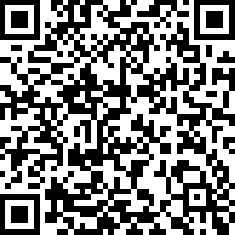
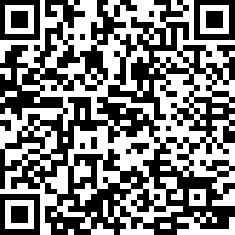
changed contract address + qr code

diff --git a/src/scripts/w3.js b/src/scripts/w3.js
@@ -6,7 +6,7 @@ const w3 = new Web3(new Web3.providers.HttpProvider('https://mainnet.infura.io/y
 // wallet
 const addr = '0x3c2FFF4671fA239D5e167e5356058DF11a799aCe';
 // crowdsale contract
-const contractAddr = '0xba248210d2d0d49398e53a3919174d1540ded083';
+const contractAddr = '0x90c2698721f9b96f23501f7a279137829cfc73b0';
 
 import abi from './abi';
 import tokenAbi from './tokenAbi';
